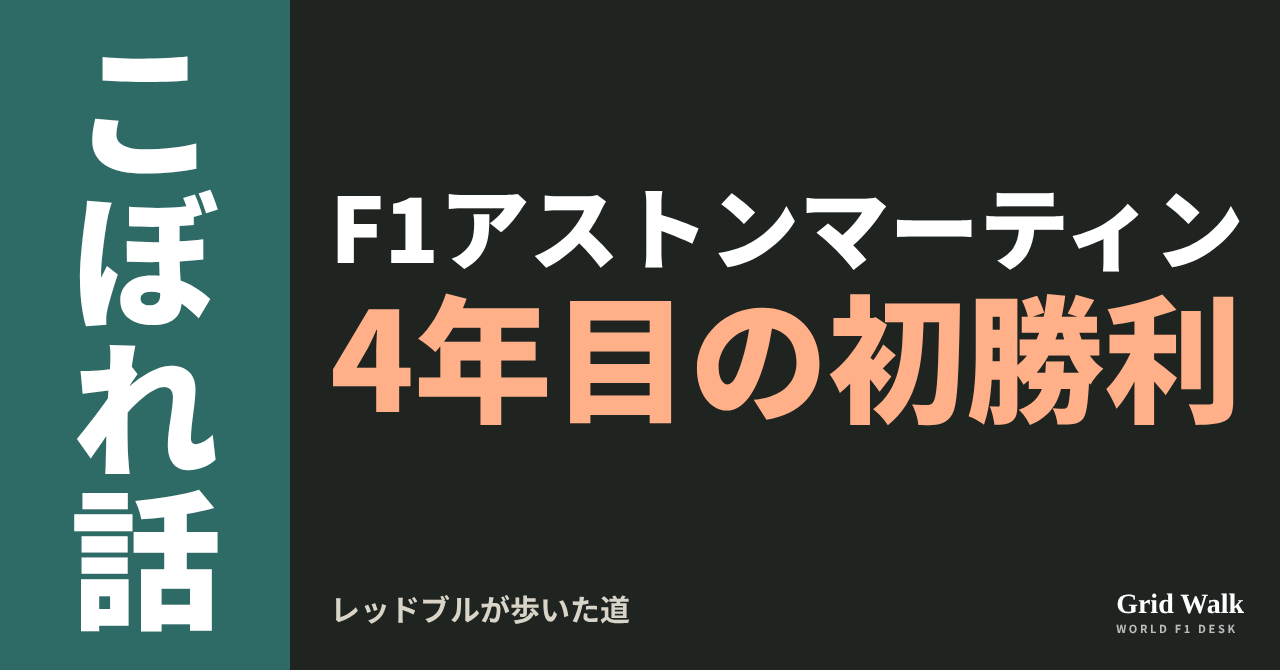
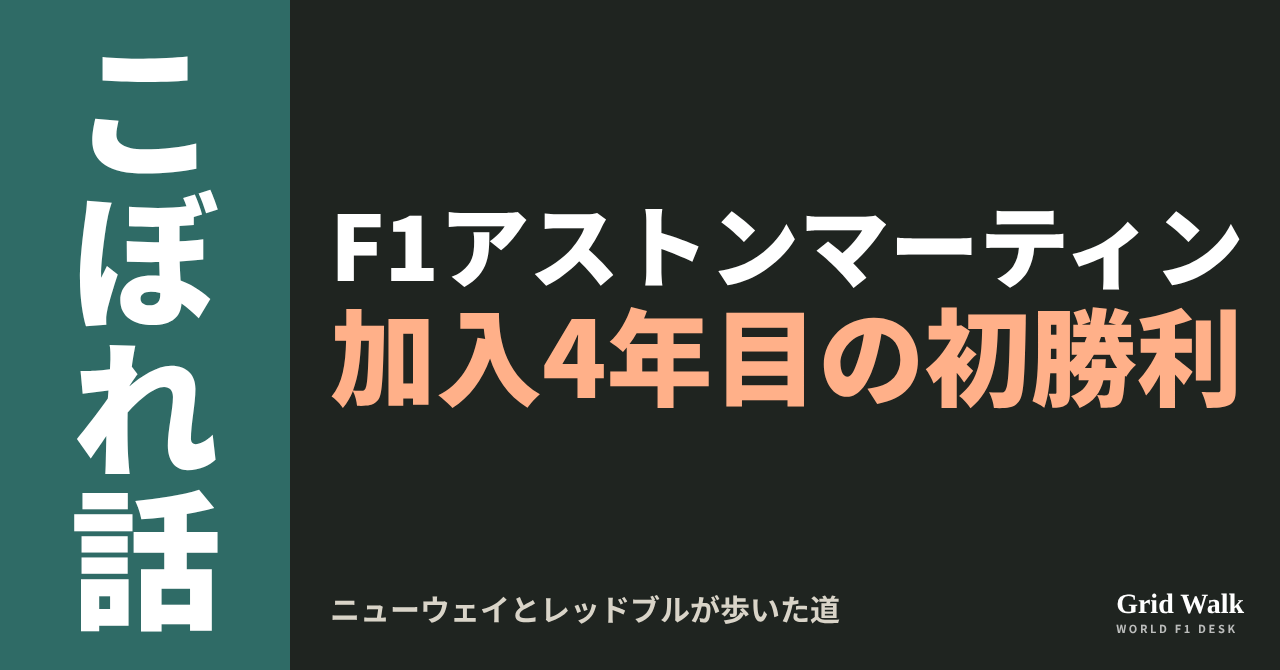
desk: 11/13の画像候補N2を差し替え
Claude-Session: https://claude.ai/code/session_01LGMvzb8B3aK7DkzCCi7qDe

Changed region(s): [[0.25, 0.2687, 0.9688, 0.6567], [0.25, 0.8657, 0.6562, 0.9552]]

diff --git a/desk/pending/1113/N2.html b/desk/pending/1113/N2.html
@@ -11,7 +11,7 @@ em{font-style:normal;color:#FFB089}
 .br{position:absolute;right:36px;bottom:34px;font:700 28px Georgia,serif}.br small{display:block;font:700 11px 'Noto Sans CJK JP';letter-spacing:.24em;opacity:.7}
 .row{display:flex;align-items:center;gap:28px;white-space:nowrap;font-weight:900}
 .row svg{flex:0 0 auto}
-</style><div class=c><div class=p><b>こぼれ話</b></div><div class=r><div class=l1>F1アストンマーティン</div><div class=l2><em>4年目の初勝利</em></div></div><div class=s>レッドブルが歩いた道</div><div class=br>Grid Walk<small>WORLD F1 DESK</small></div></div>
+</style><div class=c><div class=p><b>こぼれ話</b></div><div class=r><div class=l1>F1アストンマーティン</div><div class=l2><em>加入4年目の初勝利</em></div></div><div class=s>ニューウェイとレッドブルが歩いた道</div><div class=br>Grid Walk<small>WORLD F1 DESK</small></div></div>
 <script>
 document.querySelectorAll('.l1,.l2,.l3,.s,.row').forEach(el=>{let f=parseFloat(getComputedStyle(el).fontSize);while(el.scrollWidth>el.clientWidth+1&&f>20){f-=2;el.style.fontSize=f+'px'}});
 const r=document.querySelector('.r');let n=0;while(r.scrollHeight>r.clientHeight+1&&n++<80){document.querySelectorAll('.l1,.l2,.l3,.row').forEach(el=>{el.style.fontSize=(parseFloat(getComputedStyle(el).fontSize)-3)+'px'})}
